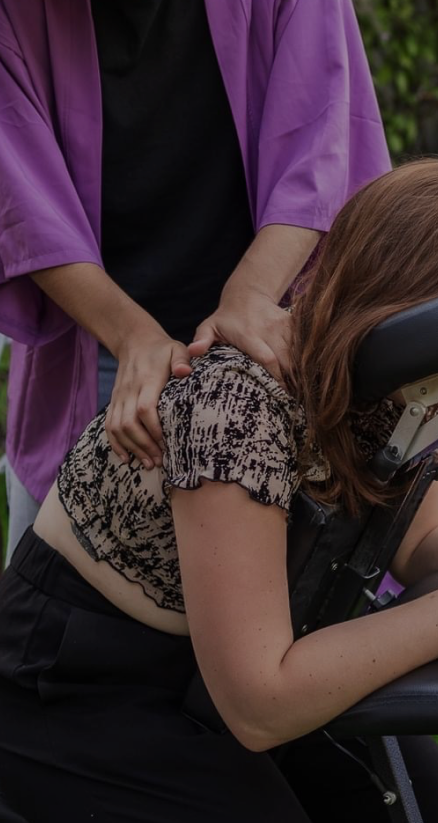
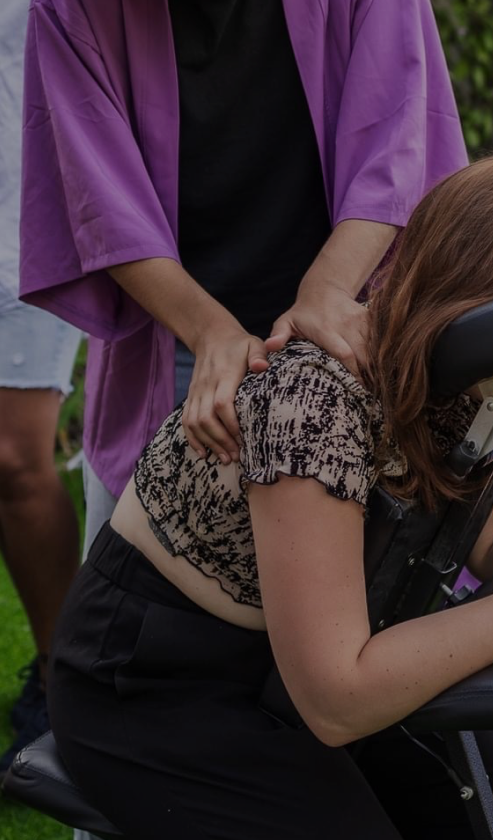
Update team picture

diff --git a/src/EquipeComponents/CoreEquipe.jsx b/src/EquipeComponents/CoreEquipe.jsx
@@ -23,7 +23,7 @@ function CoreEquipe() {
         {
             name: 'Cassandra Seyi',
             position: `Responsable partenariats et marketing`,
-            imageSrc: '../equipe/dummy.jpg',
+            imageSrc: '../equipe/Cassandra.jpg',
         },
     ]
 
